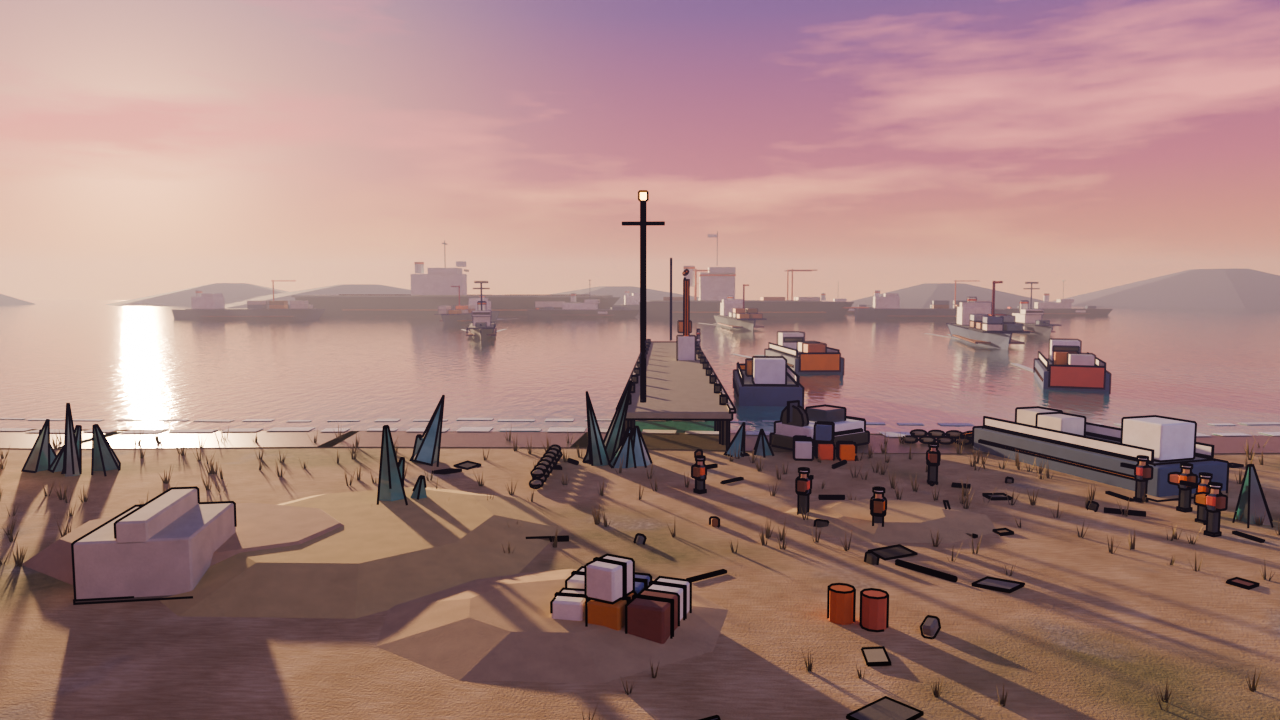
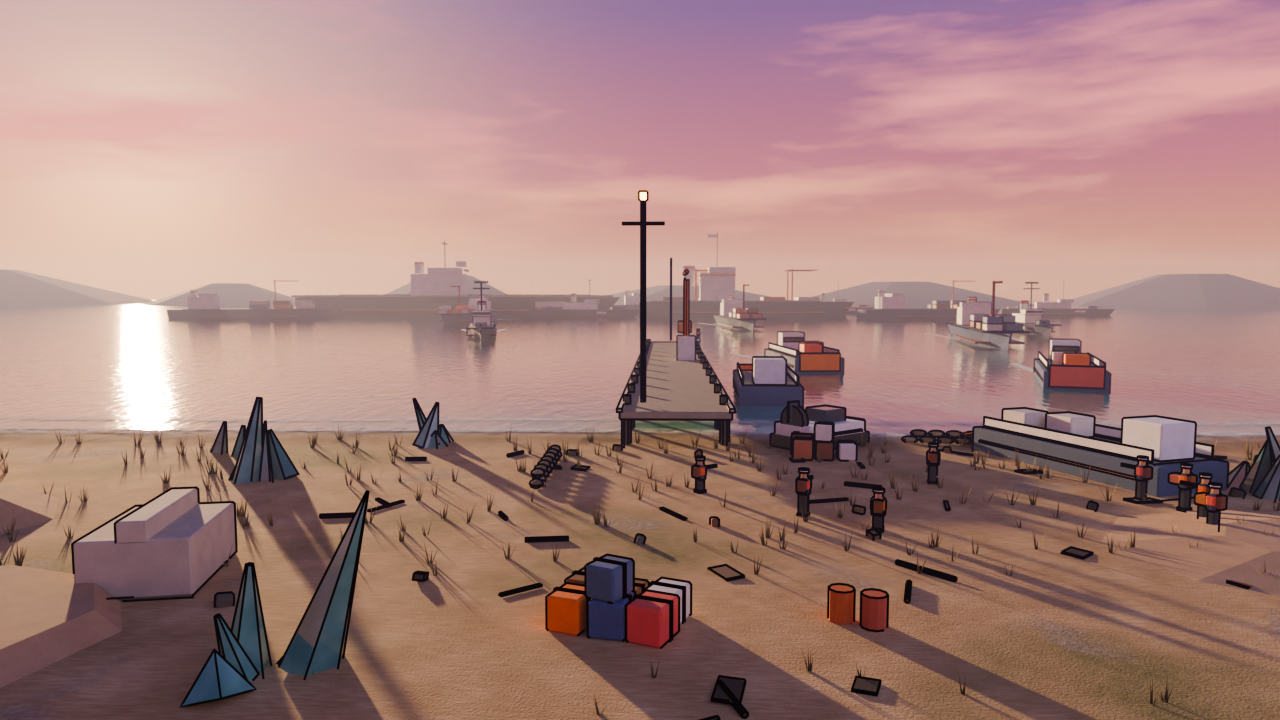
fix(art): act2/act3 re-render with soft surf; act3 storm sky, light shaft, jets in frame [M8-14]
Claude-Session: https://claude.ai/code/session_01KFnB2Y1gLSS4NsvbCWyaCy

diff --git a/tools/art/stills/still_expedition_act3.py b/tools/art/stills/still_expedition_act3.py
@@ -71,21 +71,23 @@ def build():
     E.landing_craft((22, 30), -0.15, 1.3, wake_on=True, rng=R)
 
     # jets on contrails, climbing away over the cove
-    for p0, p1, bank in (((-20, 40, 40), (-48, 100, 60), 0.35), ((70, 60, 50), (40, 130, 74), -0.3)):
+    for p0, p1, bank in (((-10, 50, 24), (-40, 105, 40), 0.35), ((60, 70, 30), (42, 135, 48), -0.3)):
         yaw = math.atan2(p1[0] - p0[0], p1[1] - p0[1])
         E.jet(p1, yaw, z=p1[2], s=2.0, bank=bank)
-        E.contrail(p0, (p1[0] - math.sin(yaw) * 5, p1[1] - math.cos(yaw) * 5, p1[2]), n=22, r=0.35, rng=R)
+        E.contrail(p0, (p1[0] - math.sin(yaw) * 5, p1[1] - math.cos(yaw) * 5, p1[2]), n=24, r=0.55, rng=R)
+
+    E.light_shaft((8, 118, 0), (30, 330, 190), r_base=22.0, alpha=0.12, emit=1.8)
 
     # sky: storm greys and a gap of sun on the right
-    az, el = math.radians(28.0), math.radians(22.0)
+    az, el = math.radians(14.0), math.radians(16.0)
     sunv = Vector((math.sin(az) * math.cos(el), math.cos(az) * math.cos(el), math.sin(el)))
-    E.sky_custom(sunv, [(0.0, "#D5E0D8"), (0.05, "#A7BDBC"), (0.18, "#5E8296"), (0.5, "#2C4560"), (1.0, "#14213A")],
-                 glow="#FFE6B8", cloud_stops=[(0.04, "#F2F0E2"), (0.18, "#8A9AA8"), (0.45, "#3E5068")],
-                 strength=1.0, cloud_cov=(0.36, 0.54), cloud_gain=1.5, glow_gain=2.2, cloud_band=(0.0, 0.14, 0.6, 0.9))
-    key = K.sun((0, 0, 0), float(os.environ.get("STILL_SUN", "12.0")), colour=(1.0, 0.88, 0.68), angle=1.6)
+    E.sky_custom(sunv, [(0.0, "#CFDAD0"), (0.05, "#8FA9AC"), (0.18, "#456A80"), (0.5, "#1F3550"), (1.0, "#0C1528")],
+                 glow="#FFE6B8", cloud_stops=[(0.04, "#FFF4D8"), (0.15, "#6C7C8C"), (0.45, "#222F44")],
+                 strength=0.9, cloud_cov=(0.30, 0.48), cloud_gain=1.25, glow_gain=3.6, cloud_band=(0.0, 0.14, 0.6, 0.9))
+    key = K.sun((0, 0, 0), float(os.environ.get("STILL_SUN", "14.0")), colour=(1.0, 0.88, 0.68), angle=1.6)
     key.rotation_euler = (-sunv).to_track_quat("-Z", "Y").to_euler()
     K.area_light((-34, -30, 34), (0, 15, 2), 60, 14000.0, (0.55, 0.65, 1.0))
-    K.haze(float(os.environ.get("STILL_HAZE", "0.0014")), top=60.0, colour="#C4D4DA")
+    K.haze(float(os.environ.get("STILL_HAZE", "0.0010")), top=60.0, colour="#C4D4DA")
     K.camera((4.0, -38.0, 12.5), (6.0, 90.0, 3.0), lens=24)
 
 
